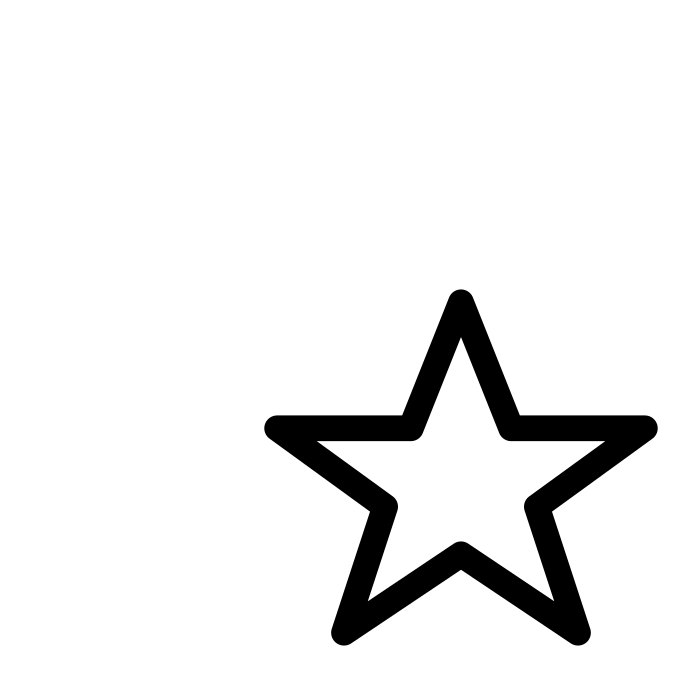
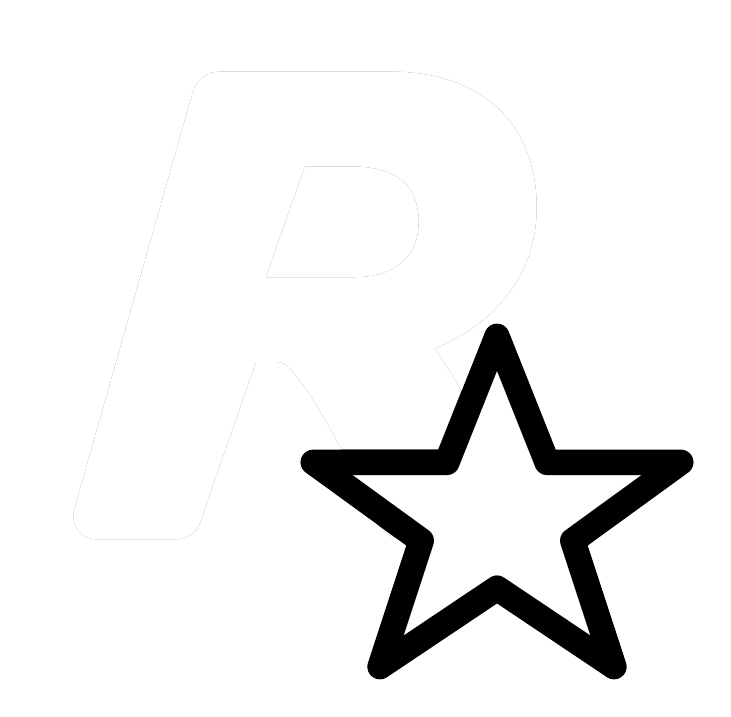
fix: center R+star badge by ink-mass centroid, not bounding box
The badge PNG's tight-crop-then-uniform-padding pipeline (all 3 prior
badge commits) measured ~18px left / ~17px up of true center on a
~700px canvas -- visible as the whole R+star unit reading left-heavy
inside the black box, despite the Container's own EdgeInsets.all(10)
already being symmetric in code. Same lesson this project has hit for
every other logo asset (wordmark, app icon R): bbox-symmetric padding
isn't the same as visually-balanced padding when the glyph's ink is
unevenly distributed. Fixed by adding asymmetric padding around the
tight ink crop so the centroid lands dead-center (verified to within
0.15px), not by touching the widget code, which was never the actual
problem. Also made Image.asset's Alignment.center explicit (previously
implicit via BoxFit.contain's own default).

diff --git a/app/lib/features/auth/splash_screen.dart b/app/lib/features/auth/splash_screen.dart
@@ -49,7 +49,25 @@ import '../../core/theme/app_colors.dart';
 /// more closely than the Stitch-provided size. All 3 rounds share the same
 /// SVG->recolor->crop->rasterize pipeline; only the source SVG or polygon
 /// coordinates changed each time, never the code (the asset filename never
-/// changed). Both `splash_tagline`/`splash_subtitle` l10n keys and the
+/// changed).
+///
+/// **The badge PNG's own canvas is centered on ink-mass centroid, not its
+/// bounding box** -- the same lesson this project has hit repeatedly for
+/// every other logo asset (the "renly" wordmark, the app icon's "R"):
+/// bbox-symmetric padding is NOT the same as visually-balanced padding,
+/// since the R's thick stem plus the star's added mass sit off to one side
+/// of the glyph's own geometric bbox. A tight-crop-then-uniform-padding pass
+/// (what every prior round of this badge did) measured ~18px left / ~17px
+/// up of true center on a ~700px canvas -- visible as the whole R+star unit
+/// reading "left-heavy" inside the badge box despite the Container's own
+/// `EdgeInsets.all(10)` already being perfectly symmetric in code. Fixed at
+/// the asset level (asymmetric padding added around the tight ink crop so
+/// the centroid lands dead-center, verified to within 0.15px), not by
+/// touching the Container/Image code, which was never actually the
+/// problem. `Image.asset`'s `alignment: Alignment.center` was still made
+/// explicit (previously implicit via `BoxFit.contain`'s own default) so the
+/// centering intent reads clearly from the widget code itself. Both
+/// `splash_tagline`/`splash_subtitle` l10n keys and the
 /// bottom-pinned tagline text were removed in the round before
 /// this one, for a plain/minimal splash with nothing below the logo.
 ///
@@ -124,6 +142,7 @@ class _SplashScreenState extends State<SplashScreen> {
                     child: Image.asset(
                       'assets/illustrations/renly_r_star_badge.png',
                       fit: BoxFit.contain,
+                      alignment: Alignment.center,
                       errorBuilder: (context, error, stackTrace) => Text(
                         'R',
                         style: Theme.of(context).textTheme.headlineLarge?.copyWith(
